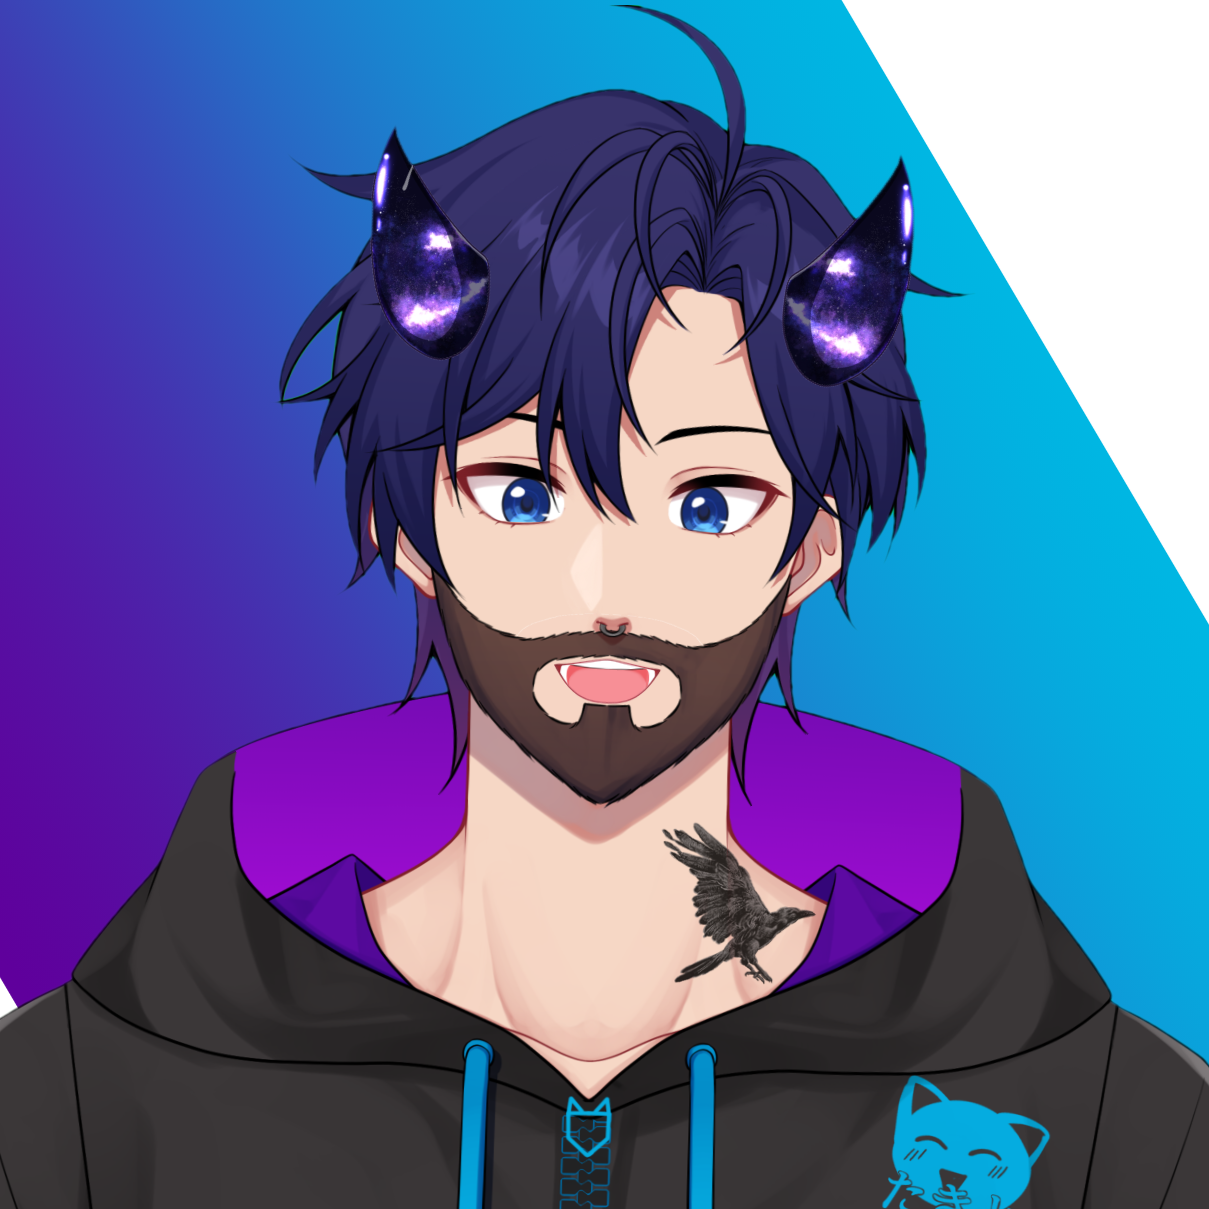
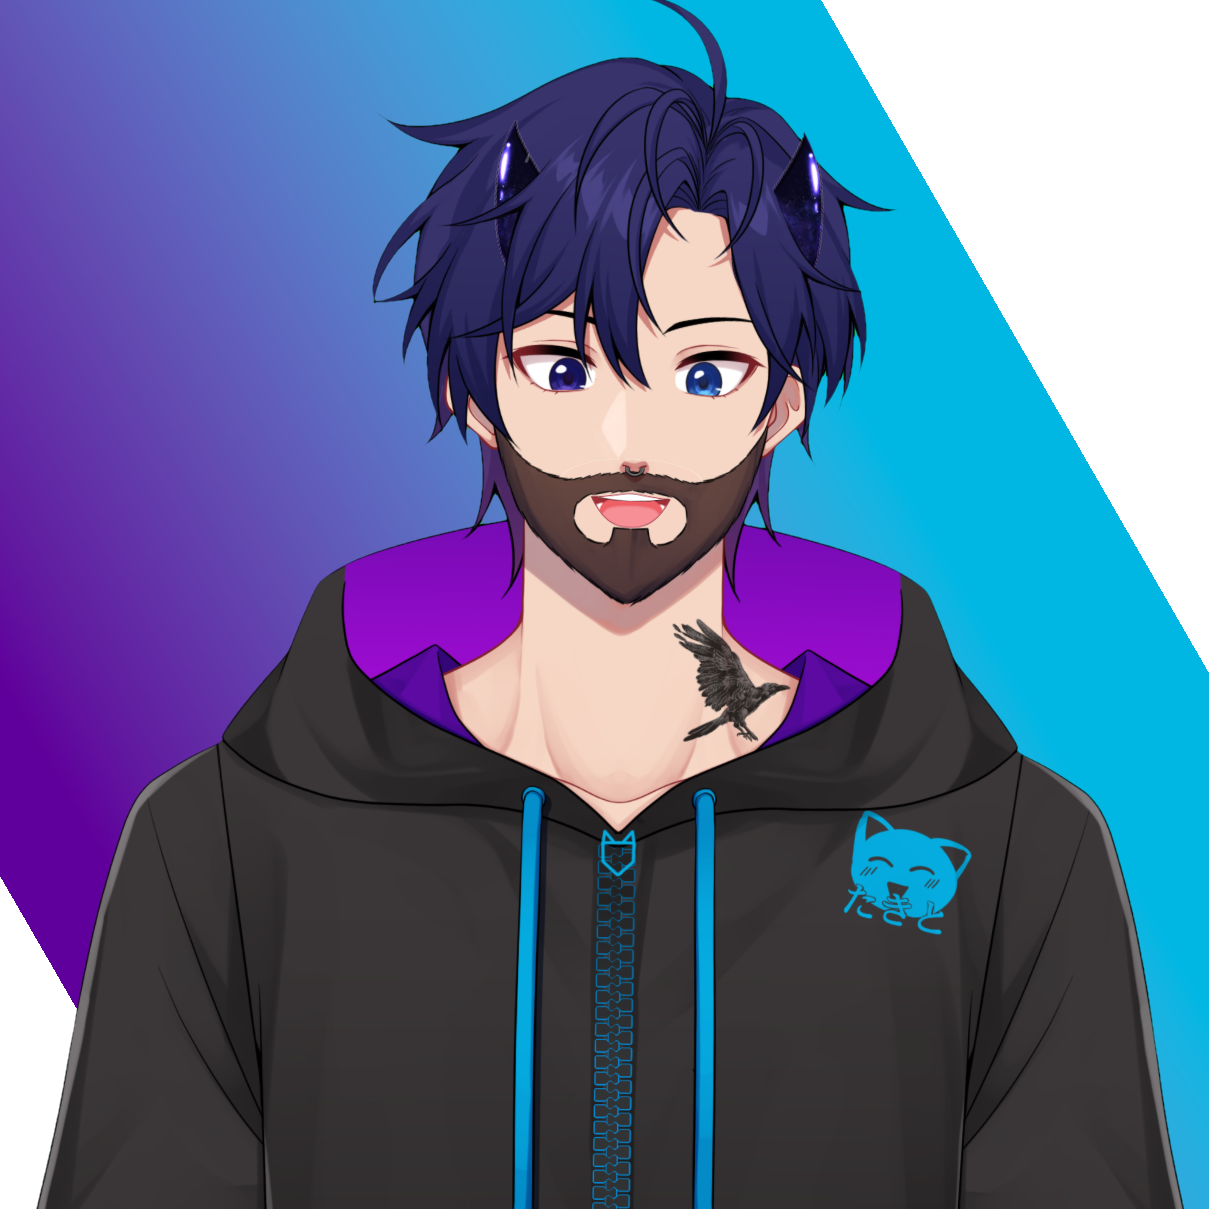
siteUpdate for URL change

diff --git a/index.html b/index.html
@@ -54,9 +54,11 @@ body, html {
   <div class="objRow">
     <div class="objCol m6 objCenter objPadding-large">
       <p><b><i class="fa fa-user objMargin-right"></i> Relakye Hydrix</b></p><br>
-      <img src="./imgs/ProfileImg.webp" class="objRoundCorn objImage objOpacity objHover-opacity-off itemColor-border-black" alt="Photo of Me" width="900" height="666">
-    </div>
-
+      <div class="hoverable">
+        <span class="hoverable__main"><img src="./imgs/ProfileImg.webp" class="objRoundCorn objImage objOpacity objHover-opacity-off itemColor-border-black hoverable__main" alt="Photo of Me" width="900" height="666"></span>
+        <span class="hoverable__tooltip objRoundCorn objPadding">Hover text</span>
+      </div>
+    </div>    
     <!-- Hide this text on small devices -->
     <div class="objCol m6 objHide-small objPadding-large">
       <p> Hi there! I'm Relakye Hydrix also known as RelakyeVT or RHydrix, I am a technology technician with a passion for all things tech. I love diving into new software, hardware, and figuring out how things work.
@@ -70,8 +72,16 @@ body, html {
         <br>
         Of course, I also enjoy sharing my gaming experiences with others, and I'm always looking for new ways to connect with new friends or just hanging out with the community.</p>
     </div>
+    <div class="objRow">
+    <div class="objCol m6 objRight objCenter objPadding-large">
+      <p><div class="objCenter"><b><i class="fa fa-user objMargin-right"></i> Relakye Hydrix</b></div></p><br>
+      <div class="hoverable">
+      <span class="hoverable__main"><img src="./imgs/ProfileImg_DG_STUDIO.webp" class="objRoundCorn objImage objOpacity objHover-opacity-off itemColor-border-black" alt="Photo of Me" width="900" height="666"></span>
+      <span class="hoverable__tooltip objRoundCorn objPadding">Hover text</span>
+    </div>
   </div>
-
+</div>
+<br><br>
 <br>
 <br>
 <!-- Second Parallax Image with Portfolio Text -->

diff --git a/Style.css b/Style.css
@@ -1452,3 +1452,16 @@ img {
 .w3-opacity-min{
   opacity:0.75
 }
+.hoverable {
+  position: relative;
+}
+.hoverable>.hoverable__tooltip {
+  display: none;
+}
+.hoverable:hover>.hoverable__tooltip {
+  display: block;
+  position: static;
+  margin: 10px;
+  /*background: #f2f2f2d6 !important;*/
+  border: 1.5px solid black;
+}
